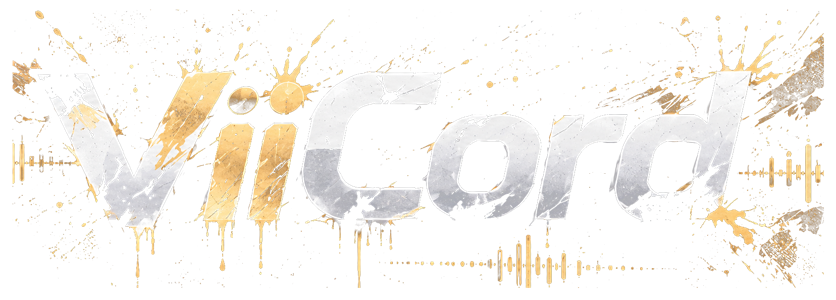
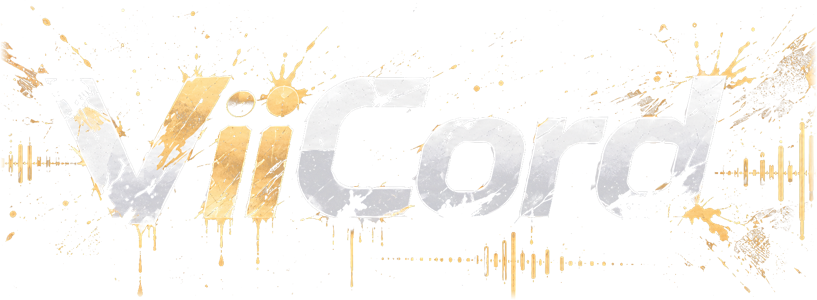
ViiCord 2.0.2 : bannieres mieux detourees (fond retire)
Claude-Session: https://claude.ai/code/session_01XrSXeVDzeni7ZkXycq6syn

diff --git a/src/Views/AboutWindow.xaml.cs b/src/Views/AboutWindow.xaml.cs
@@ -34,7 +34,8 @@ public partial class AboutWindow : Window
 
     private static readonly HistoryItem[] History =
     {
-        new(AppInfo.Version, "Nouveau logo et icône. Une bannière ViiCord aux couleurs de chaque ambiance. Premium noir et or passe en premier."),
+        new(AppInfo.Version, "Bannières mieux détourées : le fond sombre autour du logo disparaît."),
+        new("2.0.1", "Nouveau logo et icône. Une bannière ViiCord aux couleurs de chaque ambiance. Premium noir et or passe en premier."),
         new("2.0.0", "Nouveau nom : ViiCord, avec VIIRUS pour mascotte. Dossier des réglages migré vers %APPDATA%\\ViiCord sans rien perdre. Page À propos détaillée."),
         new("1.9.1", "Bouton Aléatoire sur chaque page du carrousel."),
         new("1.9.0", "Interface carrousel : une grande carte, on tourne les catégories. Partage de profils (export / import)."),

diff --git a/src/Services/Core.cs b/src/Services/Core.cs
@@ -15,7 +15,7 @@ namespace ViiCord.Services;
 public static class AppInfo
 {
     public const string Name = "ViiCord";
-    public const string Version = "2.0.1";
+    public const string Version = "2.0.2";
     public const string Edition = "C# / .NET 8";
     public const string Creator = "byRedemptiion";
 }
